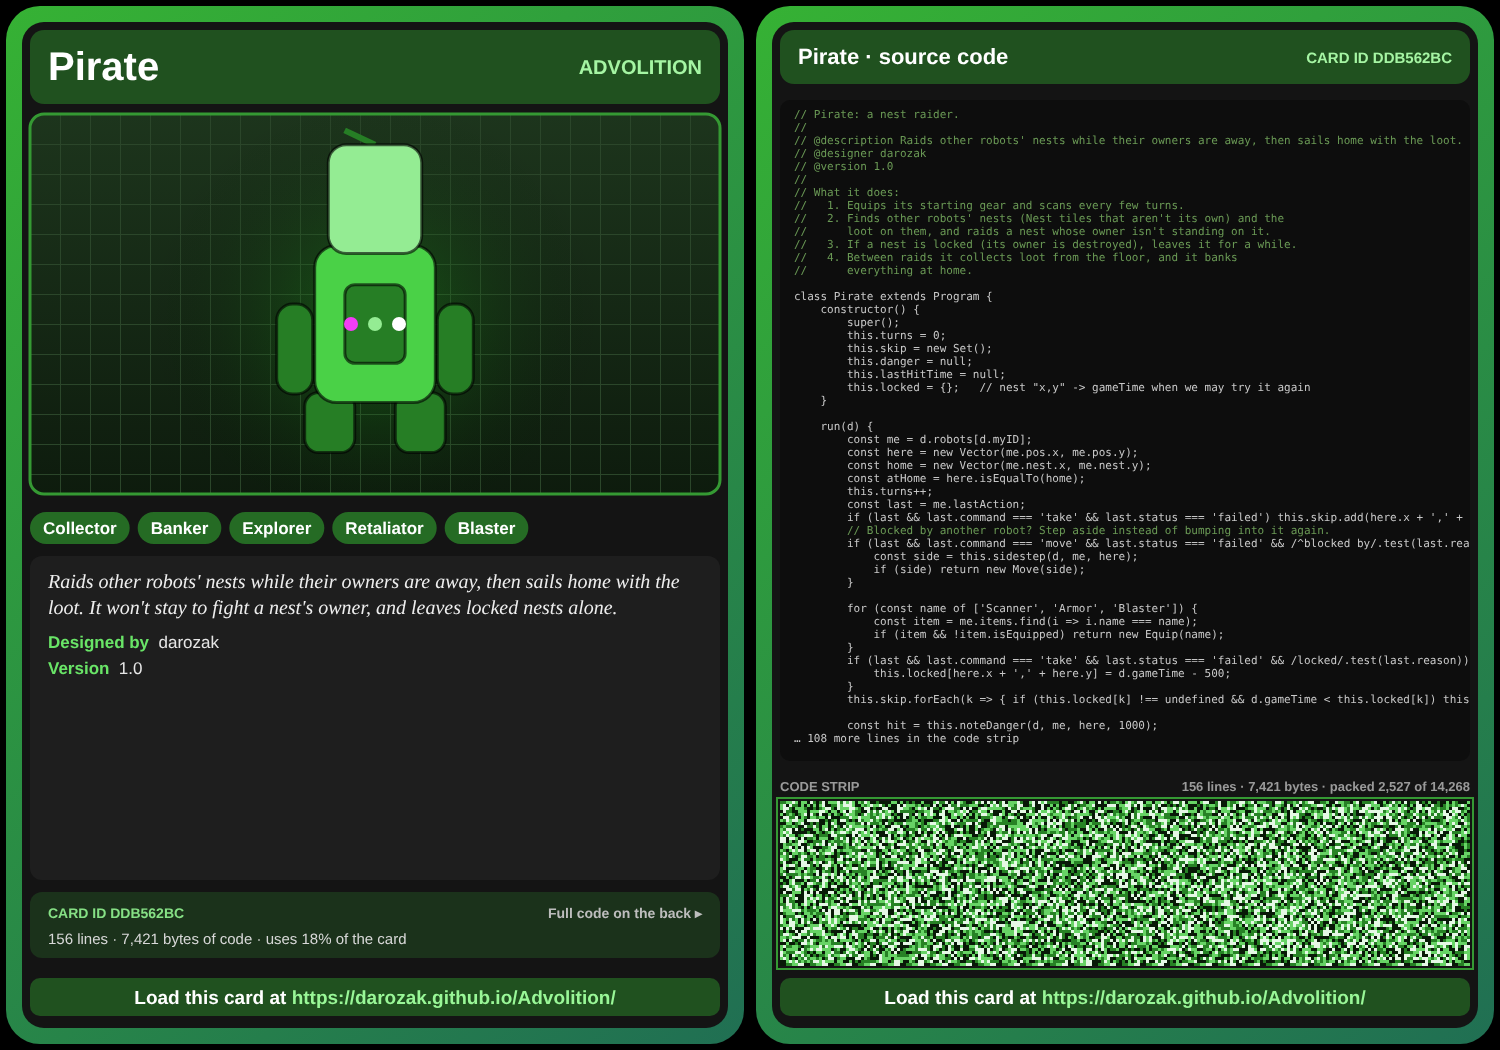
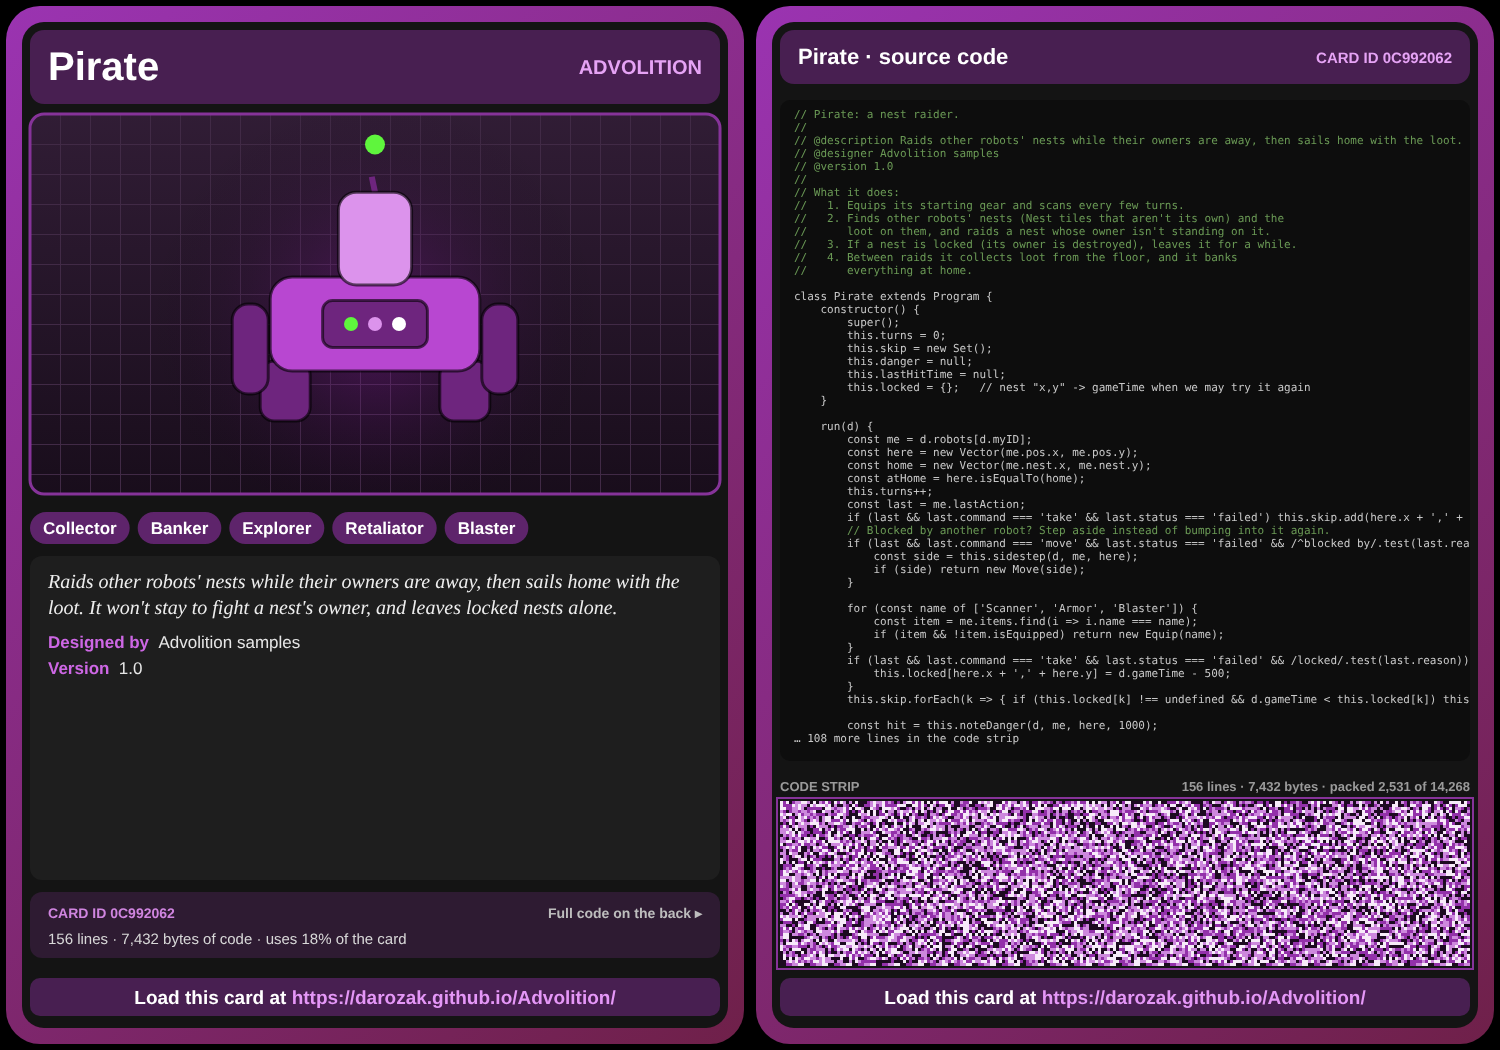
Credit the sample robots to "Advolition samples"
The sample robots' @designer field (shown as "Designed by" on their cards)
no longer names a person. All seven sample cards are regenerated.

Claude-Session: https://claude.ai/code/session_01TyGReu1t8K7G9vJf8sBL54

Changed region(s): [[0.0, 0.0, 1.0, 1.0], [0.3987, 0.3657, 0.4293, 0.3962], [0.092, 0.3657, 0.1227, 0.3962]]

diff --git a/Samples/sprinter.js b/Samples/sprinter.js
@@ -1,7 +1,7 @@
 // Sprinter: a fast, light collector.
 //
 // @description Travels light: banks its Blaster and Armor at home on the first turns, so it moves almost twice as fast, then dashes out for light, valuable items and away from other robots.
-// @designer darozak
+// @designer Advolition samples
 // @version 1.0
 //
 // What it does:

diff --git a/Samples/bounty-hunter.js b/Samples/bounty-hunter.js
@@ -1,7 +1,7 @@
 // Bounty Hunter: a fighter.
 //
 // @description Arms up with the best guns it finds, then hunts robots that are carrying loot, since destroying them pays a bounty. Picks up what they drop, and limps home to repair when hurt.
-// @designer darozak
+// @designer Advolition samples
 // @version 1.0
 //
 // What it does:

diff --git a/Samples/prospector.js b/Samples/prospector.js
@@ -1,7 +1,7 @@
 // Prospector: a treasure hunter.
 //
 // @description Hunts treasure. It weighs each find's worth against how far away it is and how heavy it is, and hurries heavy prizes like Golden Statues and Dragon Eggs straight home.
-// @designer darozak
+// @designer Advolition samples
 // @version 1.0
 //
 // What it does:

diff --git a/Samples/pirate.js b/Samples/pirate.js
@@ -1,7 +1,7 @@
 // Pirate: a nest raider.
 //
 // @description Raids other robots' nests while their owners are away, then sails home with the loot. It won't stay to fight a nest's owner, and leaves locked nests alone.
-// @designer darozak
+// @designer Advolition samples
 // @version 1.0
 //
 // What it does:

diff --git a/Samples/gatherer.js b/Samples/gatherer.js
@@ -2,7 +2,7 @@
 //
 // @description Explores the dungeon, collects items and banks them on its nest,
 //   fights back when shot, and always makes it home before time runs out.
-// @designer darozak
+// @designer Advolition samples
 // @version 1.1
 //
 // What it does, in order of priority each turn:

diff --git a/Samples/bulwark.js b/Samples/bulwark.js
@@ -1,7 +1,7 @@
 // Bulwark: a defender.
 //
 // @description Builds a fortress: stacks Armor and shields, works only close to home, and stands guard on its nest whenever another robot comes near.
-// @designer darozak
+// @designer Advolition samples
 // @version 1.0
 //
 // What it does:

diff --git a/Samples/sentinel.js b/Samples/sentinel.js
@@ -1,7 +1,7 @@
 // Sentinel: a sample robot that guards its nest.
 //
 // @description Stays home, scans every turn and shoots the nearest robot it can see.
-// @designer darozak
+// @designer Advolition samples
 // @version 1.3
 //
 // What it does:
